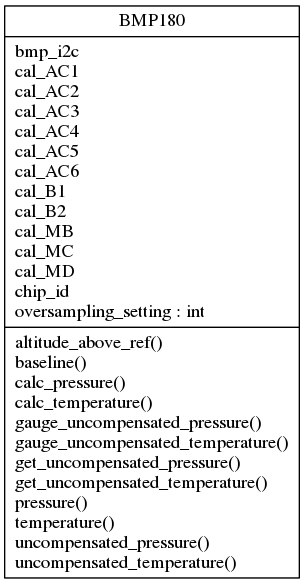
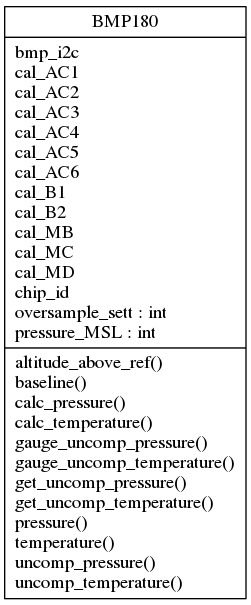
restyling

Changed region(s): [[0.0, 0.0, 1.0, 1.0]]

diff --git a/bmp180.py b/bmp180.py
@@ -1,32 +1,38 @@
-# bmp180 - a micropython module for the bmp180 pressure sensor
+'''
+bmp180 is a micropython module for the Bosch BMP180 sensor. It measures
+temperature as well as pressure, with a high enough resolution to calculate
+altitude.
 
-# The MIT License (MIT)
-# Copyright (c) 2014 Sebastian Plamauer, oeplse@gmail.com
-# Permission is hereby granted, free of charge, to any person obtaining a copy
-# of this software and associated documentation files (the "Software"), to deal
-# in the Software without restriction, including without limitation the rights
-# to use, copy, modify, merge, publish, distribute, sublicense, and/or sell
-# copies of the Software, and to permit persons to whom the Software is
-# furnished to do so, subject to the following conditions:
-# The above copyright notice and this permission notice shall be included in
-# all copies or substantial portions of the Software.
-# THE SOFTWARE IS PROVIDED "AS IS", WITHOUT WARRANTY OF ANY KIND, EXPRESS OR
-# IMPLIED, INCLUDING BUT NOT LIMITED TO THE WARRANTIES OF MERCHANTABILITY,
-# FITNESS FOR A PARTICULAR PURPOSE AND NONINFRINGEMENT. IN NO EVENT SHALL THE
-# AUTHORS OR COPYRIGHT HOLDERS BE LIABLE FOR ANY CLAIM, DAMAGES OR OTHER
-# LIABILITY, WHETHER IN AN ACTION OF CONTRACT, TORT OR OTHERWISE, ARISING FROM,
-# OUT OF OR IN CONNECTION WITH THE SOFTWARE OR THE USE OR OTHER DEALINGS IN
-# THE SOFTWARE.
+The MIT License (MIT)
+Copyright (c) 2014 Sebastian Plamauer, oeplse@gmail.com
+Permission is hereby granted, free of charge, to any person obtaining a copy
+of this software and associated documentation files (the "Software"), to deal
+in the Software without restriction, including without limitation the rights
+to use, copy, modify, merge, publish, distribute, sublicense, and/or sell
+copies of the Software, and to permit persons to whom the Software is
+furnished to do so, subject to the following conditions:
+The above copyright notice and this permission notice shall be included in
+all copies or substantial portions of the Software.
+THE SOFTWARE IS PROVIDED "AS IS", WITHOUT WARRANTY OF ANY KIND, EXPRESS OR
+IMPLIED, INCLUDING BUT NOT LIMITED TO THE WARRANTIES OF MERCHANTABILITY,
+FITNESS FOR A PARTICULAR PURPOSE AND NONINFRINGEMENT. IN NO EVENT SHALL THE
+AUTHORS OR COPYRIGHT HOLDERS BE LIABLE FOR ANY CLAIM, DAMAGES OR OTHER
+LIABILITY, WHETHER IN AN ACTION OF CONTRACT, TORT OR OTHERWISE, ARISING FROM,
+OUT OF OR IN CONNECTION WITH THE SOFTWARE OR THE USE OR OTHER DEALINGS IN
+THE SOFTWARE.
+'''
 
-from struct import unpack
+from struct import unpack as unp
 import pyb
 
 
 # BMP180 class
 class BMP180():
+    '''
+    Module for the BMP180 pressure sensor.
+    '''
 
-    # adress of BMP180 is hardcoded on the sensor
-    _bmp_addr = 119
+    _bmp_addr = 119             # adress of BMP180 is hardcoded on the sensor
 
     # init
     def __init__(self, side_char=None):
@@ -41,89 +47,116 @@ class BMP180():
             print('pass either X, 1, Y, 2 or None, defaulting to Y')
             side = 2
 
-        self.oversampling_setting = 0
+        self.oversample_sett = 0
         _bmp_addr = self._bmp_addr
         self.bmp_i2c = pyb.I2C(side, pyb.I2C.MASTER)
         self.chip_id = self.bmp_i2c.mem_read(2, _bmp_addr, 0xD0)
-        self.cal_AC1 = unpack('>h', self.bmp_i2c.mem_read(2, _bmp_addr, 0xAA))[0]
-        self.cal_AC2 = unpack('>h', self.bmp_i2c.mem_read(2, _bmp_addr, 0xAC))[0]
-        self.cal_AC3 = unpack('>h', self.bmp_i2c.mem_read(2, _bmp_addr, 0xAE))[0]
-        self.cal_AC4 = unpack('>H', self.bmp_i2c.mem_read(2, _bmp_addr, 0xB0))[0]
-        self.cal_AC5 = unpack('>H', self.bmp_i2c.mem_read(2, _bmp_addr, 0xB2))[0]
-        self.cal_AC6 = unpack('>H', self.bmp_i2c.mem_read(2, _bmp_addr, 0xB4))[0]
-        self.cal_B1 = unpack('>h', self.bmp_i2c.mem_read(2, _bmp_addr, 0xB6))[0]
-        self.cal_B2 = unpack('>h', self.bmp_i2c.mem_read(2, _bmp_addr, 0xB8))[0]
-        self.cal_MB = unpack('>h', self.bmp_i2c.mem_read(2, _bmp_addr, 0xBA))[0]
-        self.cal_MC = unpack('>h', self.bmp_i2c.mem_read(2, _bmp_addr, 0xBC))[0]
-        self.cal_MD = unpack('>h', self.bmp_i2c.mem_read(2, _bmp_addr, 0xBE))[0]
+        self.cal_AC1 = unp('>h', self.bmp_i2c.mem_read(2, _bmp_addr, 0xAA))[0]
+        self.cal_AC2 = unp('>h', self.bmp_i2c.mem_read(2, _bmp_addr, 0xAC))[0]
+        self.cal_AC3 = unp('>h', self.bmp_i2c.mem_read(2, _bmp_addr, 0xAE))[0]
+        self.cal_AC4 = unp('>H', self.bmp_i2c.mem_read(2, _bmp_addr, 0xB0))[0]
+        self.cal_AC5 = unp('>H', self.bmp_i2c.mem_read(2, _bmp_addr, 0xB2))[0]
+        self.cal_AC6 = unp('>H', self.bmp_i2c.mem_read(2, _bmp_addr, 0xB4))[0]
+        self.cal_B1 = unp('>h', self.bmp_i2c.mem_read(2, _bmp_addr, 0xB6))[0]
+        self.cal_B2 = unp('>h', self.bmp_i2c.mem_read(2, _bmp_addr, 0xB8))[0]
+        self.cal_MB = unp('>h', self.bmp_i2c.mem_read(2, _bmp_addr, 0xBA))[0]
+        self.cal_MC = unp('>h', self.bmp_i2c.mem_read(2, _bmp_addr, 0xBC))[0]
+        self.cal_MD = unp('>h', self.bmp_i2c.mem_read(2, _bmp_addr, 0xBE))[0]
+        self.pressure_MSL = 101325
 
     # gauge uncompensated temperature
-    def gauge_uncompensated_temperature(self):
-
+    def gauge_uncomp_temperature(self):
+        '''
+        Starts the temperature measurement and returns the time it will be
+        finished.
+        '''
         self.bmp_i2c.mem_write(0x2E, self._bmp_addr, 0xF4)
         return pyb.millis()+5
 
     # get uncompensated temperature
-    def get_uncompensated_temperature(self, t_ready):
-
+    def get_uncomp_temperature(self, t_ready):
+        '''
+        Waits until the temperature measurement is finished, then returns the
+        uncompensated temperature.
+        '''
         if pyb.millis() <= t_ready:
-            self.get_uncompensated_temperature(t_ready)
+            self.get_uncomp_temperature(t_ready)
         else:
-            return unpack('>h', self.bmp_i2c.mem_read(2, self._bmp_addr, 0xF6))[0]
+            return unp('>h', self.bmp_i2c.mem_read(2, self._bmp_addr, 0xF6))[0]
 
     # uncompensated temperature
-    def uncompensated_temperature(self):
-
-        return self.get_uncompensated_temperature(self.gauge_uncompensated_temperature())
+    def uncomp_temperature(self):
+        '''
+        Measures and returns the uncompensated temperature.
+        '''
+        return self.get_uncomp_temperature(self.gauge_uncomp_temperature())
 
     # gauge uncompensated pressure
-    def gauge_uncompensated_pressure(self):
-
+    def gauge_uncomp_pressure(self):
+        '''
+        Starts the pressure measurement and returns the time it will be
+        finished.
+        '''
         delay = [5, 8, 14, 25]
-        self.bmp_i2c.mem_write((0x34+(self.oversampling_setting << 6)), self._bmp_addr, 0xF4)
-        return pyb.millis() + pyb.delay(delay[self.oversampling_setting])
+        self.bmp_i2c.mem_write(
+                                (0x34+(self.oversample_sett << 6)),
+                                self._bmp_addr,
+                                0xF4)
+
+        return pyb.millis() + pyb.delay(delay[self.oversample_sett])
 
     # get uncompensated pressure
-    def get_uncompensated_pressure(self, t_ready):
-
+    def get_uncomp_pressure(self, t_ready):
+        '''
+        Waits until the pressure measurement is finished, then returns the
+        uncompensated temperature.
+        '''
         if pyb.millis() <= t_ready:
-            self.get_uncompensated_pressure(t_ready)
+            self.get_uncomp_pressure(t_ready)
         else:
-            MSB = unpack('<h', self.bmp_i2c.mem_read(1, self._bmp_addr, 0xF6))[0]
-            LSB = unpack('<h', self.bmp_i2c.mem_read(1, self._bmp_addr, 0xF7))[0]
-            XLSB = unpack('<h', self.bmp_i2c.mem_read(1, self._bmp_addr, 0xF8))[0]
-            return ((MSB << 16)+(LSB << 8)+XLSB) >> (8-self.oversampling_setting)
+            MSB = unp('<h', self.bmp_i2c.mem_read(1, self._bmp_addr, 0xF6))[0]
+            LSB = unp('<h', self.bmp_i2c.mem_read(1, self._bmp_addr, 0xF7))[0]
+            XLSB = unp('<h', self.bmp_i2c.mem_read(1, self._bmp_addr, 0xF8))[0]
+            return ((MSB << 16)+(LSB << 8)+XLSB) >> (8-self.oversample_sett)
 
     # uncompensated pressure
-    def uncompensated_pressure(self):
-
-        return self.get_uncompensated_pressure(self.gauge_uncompensated_pressure())
+    def uncomp_pressure(self):
+        '''
+        Measures and returns the uncompensated pressure.
+        '''
+        return self.get_uncomp_pressure(self.gauge_uncomp_pressure())
 
     # B5 value for temperature compensation of pressure
-    def _B5(self, uncompensated_temperature):
-
-        X1 = (uncompensated_temperature-self.cal_AC6)*self.cal_AC5/2**15
+    def _B5(self, uncomp_temperature):
+        '''
+        Calculates and returns compensation value B5.
+        '''
+        X1 = (uncomp_temperature-self.cal_AC6)*self.cal_AC5/2**15
         X2 = self.cal_MC*2**11/(X1+self.cal_MD)
         return X1+X2
 
     # calculated temperature
-    def calc_temperature(self, uncompensated_temperature):
-
-        return ((self._B5(uncompensated_temperature)+8)/2**4)/10
+    def calc_temperature(self, uncomp_temperature):
+        '''
+        Calculates and returns the compensted temperature.
+        '''
+        return ((self._B5(uncomp_temperature)+8)/2**4)/10
 
     # calculated pressure
-    def calc_pressure(self, uncompensated_temperature, uncompensated_pressure):
-
-        B6 = self._B5(uncompensated_temperature)-4000
+    def calc_pressure(self, uncomp_temperature, uncomp_pressure):
+        '''
+        Calculates and returns the compensated pressure.
+        '''
+        B6 = self._B5(uncomp_temperature)-4000
         X1 = (self.cal_B2*(B6*B6/2**12))/2**11
         X2 = self.cal_AC2*B6/2**11
         X3 = X1+X2
-        B3 = ((int((self.cal_AC1*4+X3)) << self.oversampling_setting)+2)/4
+        B3 = ((int((self.cal_AC1*4+X3)) << self.oversample_sett)+2)/4
         X1 = self.cal_AC3*B6/2**13
         X2 = (self.cal_B1*(B6*B6/2**12))/2**16
         X3 = ((X1+X2)+2)/2**2
         B4 = self.cal_AC4*(X3+32768)/2**15
-        B7 = (abs(uncompensated_pressure)-B3)*(50000 >> self.oversampling_setting)
+        B7 = (abs(uncomp_pressure)-B3) * (50000 >> self.oversample_sett)
         if B7 < 0x80000000:
             pressure = (B7*2)/B4
         else:
@@ -135,14 +168,25 @@ class BMP180():
 
     # temperature
     def temperature(self):
-        return self.calc_temperature(self.uncompensated_temperature)
+        '''
+        Measures and returns the compensated temperature.
+        '''
+        return self.calc_temperature(self.uncomp_temperature)
 
     # pressure
     def pressure(self):
-        return self.calc_pressure(self.uncompensated_temperature, self.uncompensated_pressure)
+        '''
+        Measures and returns the compensated pressure.
+        '''
+        return self.calc_pressure(self.uncomp_temperature,
+                                  self.uncomp_pressure)
 
     # pressure baseline
     def baseline(self, dt=None):
+        '''
+        Measures the pressure for a given time and returns the mean of the
+        measurements.
+        '''
         if (dt is None) or (dt == 0):
             dt = 1000
         count = 0
@@ -154,11 +198,17 @@ class BMP180():
         return sum_pressure / count
 
     # altitude above reference
-    def altitude_above_ref(self, pressure, pressure_ref):
-        # absolute: pressure_ref = baseline
-        # true: pressure_ref = QNH*100
-        # pressure: pressure_ref = 101325
-        if pressure_ref == 0:
+    def altitude_above_ref(self, pressure, pressure_ref=None):
+        '''
+        Calculates and returns the altitude relative to a reference pressure.
+        For:             use:
+            absolute        pressure_ref = baseline
+            true            pressure_ref = QNH*100
+            pressure        pressure_ref = 101325
+        '''
+        if pressure_ref == None:
+            pressure_ref = self.pressure_MSL
+        elif pressure_ref == 0:
             print('pressure_ref can\'t be zero')
             return None
         else:
